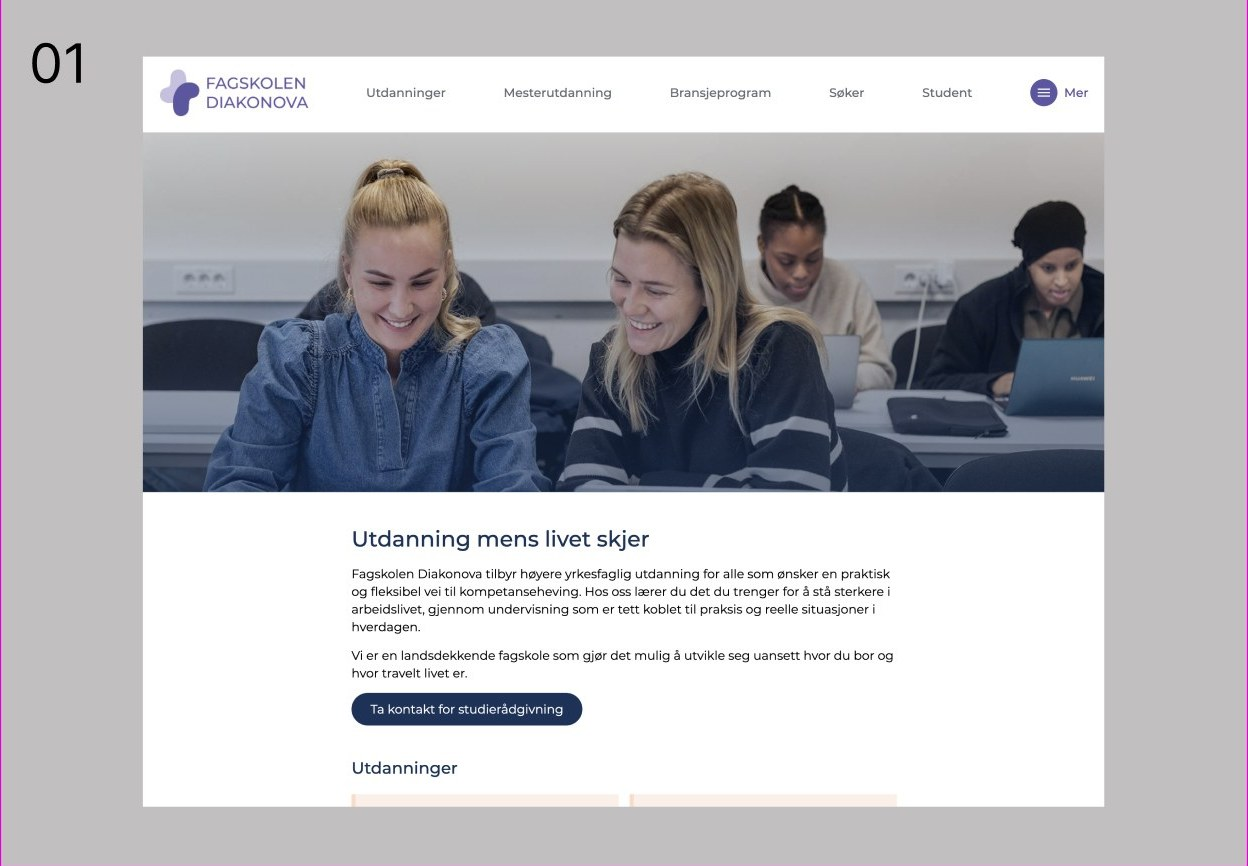
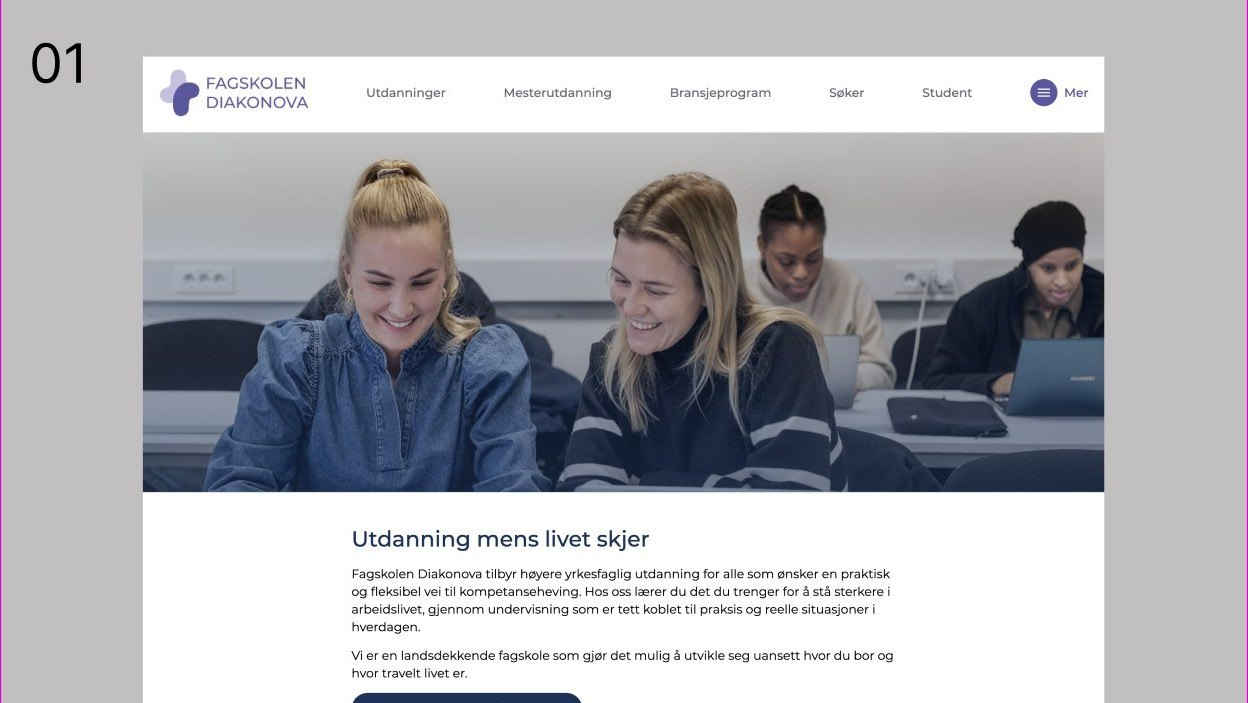
Fagskolen: remove hero image, live-site link, live 'after' screenshot; value grid one row; mobile Menu to right end; tone case display sizes toward main scale; fix redundant subheading

diff --git a/fagskolen.html b/fagskolen.html
@@ -49,7 +49,7 @@
       <p class="kicker" style="margin-bottom:28px">Fagskolen Diakonova · 2025 · UX designer</p>
       <h1 class="case-h1">Make it easy to find the right study</h1>
       <p class="case-summary">A website redesign for a vocational college known mainly for health. We organised the site around its full range of fields, gave the team a CMS they can run, and built a clear path from interest to application.</p>
-      <img src="assets/fagskolen-hero.jpg" alt="Fagskolen Diakonova front page: search, a hero, and a 'find an education that fits you' step" class="img" style="margin-top:32px; max-width:520px; height:auto">
+      <p style="margin:24px 0 0"><a class="pill" href="https://www.fagskolendiakonova.no/" target="_blank" rel="noopener">Visit the live site ↗</a></p>
       <div class="case-meta">
         <div>
           <p class="field-label">Role</p>
@@ -146,7 +146,7 @@
           <p class="caption caption--mut">Before: the old front page. Health-led, organised around the college, with one generic call to action.</p>
         </div>
         <div>
-          <img src="assets/fagskolen-hero.jpg" alt="The redesigned front page: search first, organised by field, with clear routes to interest and application" class="img h-300 pos-top">
+          <img src="assets/fagskolen-after.jpg" alt="The redesigned front page: search first, organised by field, with clear routes to interest and application" class="img h-300 pos-top">
           <p class="caption caption--mut">After: search first, the full range of fields on show, and a visible path to interest and application.</p>
         </div>
       </div>
@@ -184,7 +184,7 @@
       <p class="kicker" style="margin-bottom:28px">Fagskolen Diakonova · 2025 · UX-designer</p>
       <h1 class="case-h1">Gjør det enkelt å finne riktig utdanning</h1>
       <p class="case-summary">Et redesign av nettsiden til en fagskole som var mest kjent for helse. Vi organiserte siden rundt hele fagbredden, ga teamet et CMS de selv kan drifte, og bygget en tydelig vei fra interesse til søknad.</p>
-      <img src="assets/fagskolen-hero.jpg" alt="Forsiden til Fagskolen Diakonova: søk, en hero og et "finn utdanning som passer deg"-steg" class="img" style="margin-top:32px; max-width:520px; height:auto">
+      <p style="margin:24px 0 0"><a class="pill" href="https://www.fagskolendiakonova.no/" target="_blank" rel="noopener">Se nettsiden live ↗</a></p>
       <div class="case-meta">
         <div>
           <p class="field-label">Rolle</p>
@@ -281,7 +281,7 @@
           <p class="caption caption--mut">Før: den gamle forsiden. Helsepreget, organisert rundt skolen, med én generisk oppfordring.</p>
         </div>
         <div>
-          <img src="assets/fagskolen-hero.jpg" alt="Den redesignede forsiden: søk først, organisert etter fagfelt, med tydelige veier til interesse og søknad" class="img h-300 pos-top">
+          <img src="assets/fagskolen-after.jpg" alt="Den redesignede forsiden: søk først, organisert etter fagfelt, med tydelige veier til interesse og søknad" class="img h-300 pos-top">
           <p class="caption caption--mut">Etter: søk først, hele fagbredden synlig, og en tydelig vei til interesse og søknad.</p>
         </div>
       </div>

diff --git a/styles.css b/styles.css
@@ -202,8 +202,8 @@ body[data-lang="no"] .lang-no { display: block; }
 .nav-menu-btn .caret { font-size: 10px; }
 
 @media (max-width: 640px) {
-  .nav-menu-btn { display: inline-flex; }
-  .nav-links { display: none; order: 3; width: 100%; }
+  .nav-menu-btn { display: inline-flex; order: 4; }
+  .nav-links { display: none; order: 5; width: 100%; }
   .nav-links.open {
     display: flex;
     flex-direction: column;
@@ -894,7 +894,7 @@ body[data-lang="no"] .lang-no { display: block; }
    ============================================================ */
 .case-hero { padding: clamp(32px, 4.5vw, 60px) 0 clamp(28px, 4vw, 44px); }
 .case-h1 {
-  font-size: clamp(36px, 4.6vw, 64px);
+  font-size: clamp(32px, 4vw, 52px);
   font-weight: 500;
   line-height: 1.05;
   letter-spacing: -0.02em;
@@ -947,12 +947,12 @@ body[data-lang="no"] .lang-no { display: block; }
 }
 .value-grid {
   display: grid;
-  grid-template-columns: repeat(auto-fit, minmax(min(100%, 260px), 1fr));
-  gap: 32px 48px;
+  grid-template-columns: repeat(auto-fit, minmax(min(100%, 180px), 1fr));
+  gap: 28px 32px;
 }
 .value-item {
-  font-size: 18px;
-  line-height: 1.6;
+  font-size: 16px;
+  line-height: 1.55;
   color: var(--ink);
   margin: 0;
 }
@@ -997,8 +997,8 @@ body[data-lang="no"] .lang-no { display: block; }
 }
 .story-body > p.tight { margin: 0 0 24px; }
 .story-body > p.diagnosis {
-  font-size: 22px;
-  line-height: 1.45;
+  font-size: 20px;
+  line-height: 1.5;
   color: var(--ink);
   margin: 0 0 24px;
 }

diff --git a/index.html b/index.html
@@ -191,7 +191,7 @@
           <span class="acc-num">03</span>
           <span>
             <span class="acc-title">IA and a CMS-friendly website redesign</span>
-            <span class="acc-sub">Fagskolen Diakonova · vocational college</span>
+            <span class="acc-sub">Fagskolen Diakonova · beyond a health school</span>
           </span>
           <span class="acc-meta"><span>2025</span><span class="acc-icon">+</span></span>
         </button>
@@ -582,7 +582,7 @@
           <span class="acc-num">03</span>
           <span>
             <span class="acc-title">IA og et CMS-vennlig redesign av nettsiden</span>
-            <span class="acc-sub">Fagskolen Diakonova · fagskole</span>
+            <span class="acc-sub">Fagskolen Diakonova · mer enn helse</span>
           </span>
           <span class="acc-meta"><span>2025</span><span class="acc-icon">+</span></span>
         </button>
